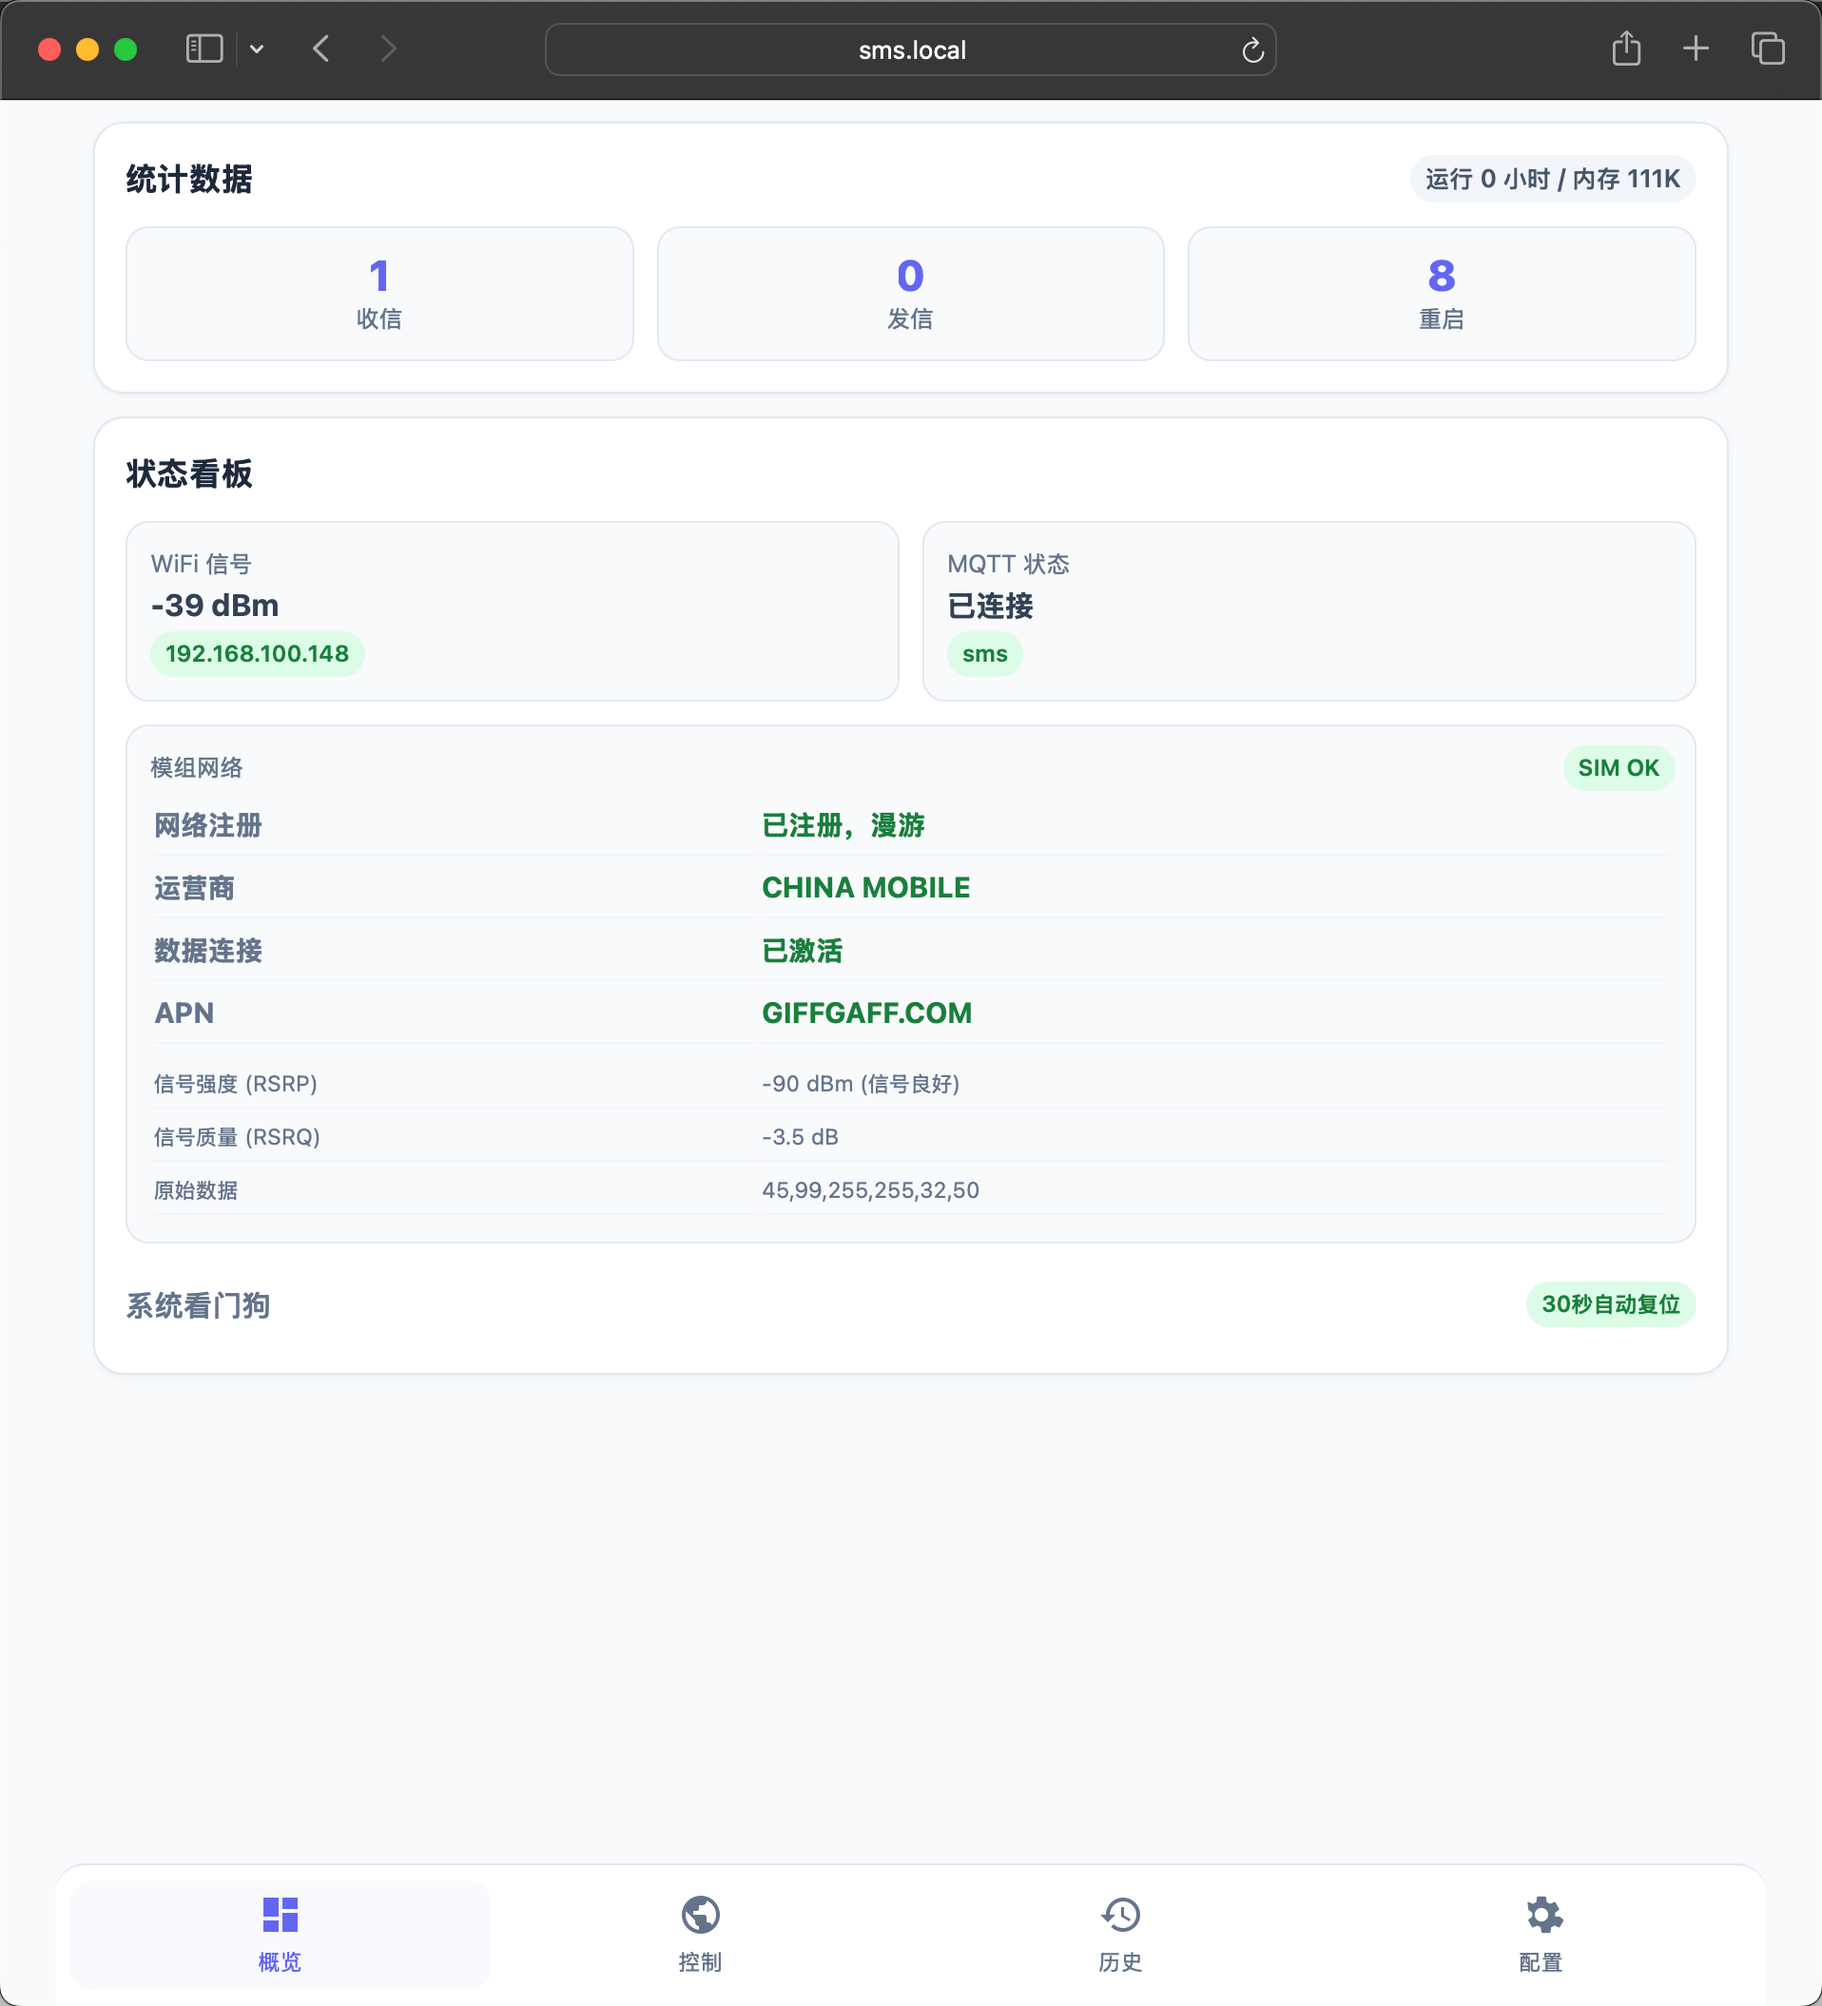
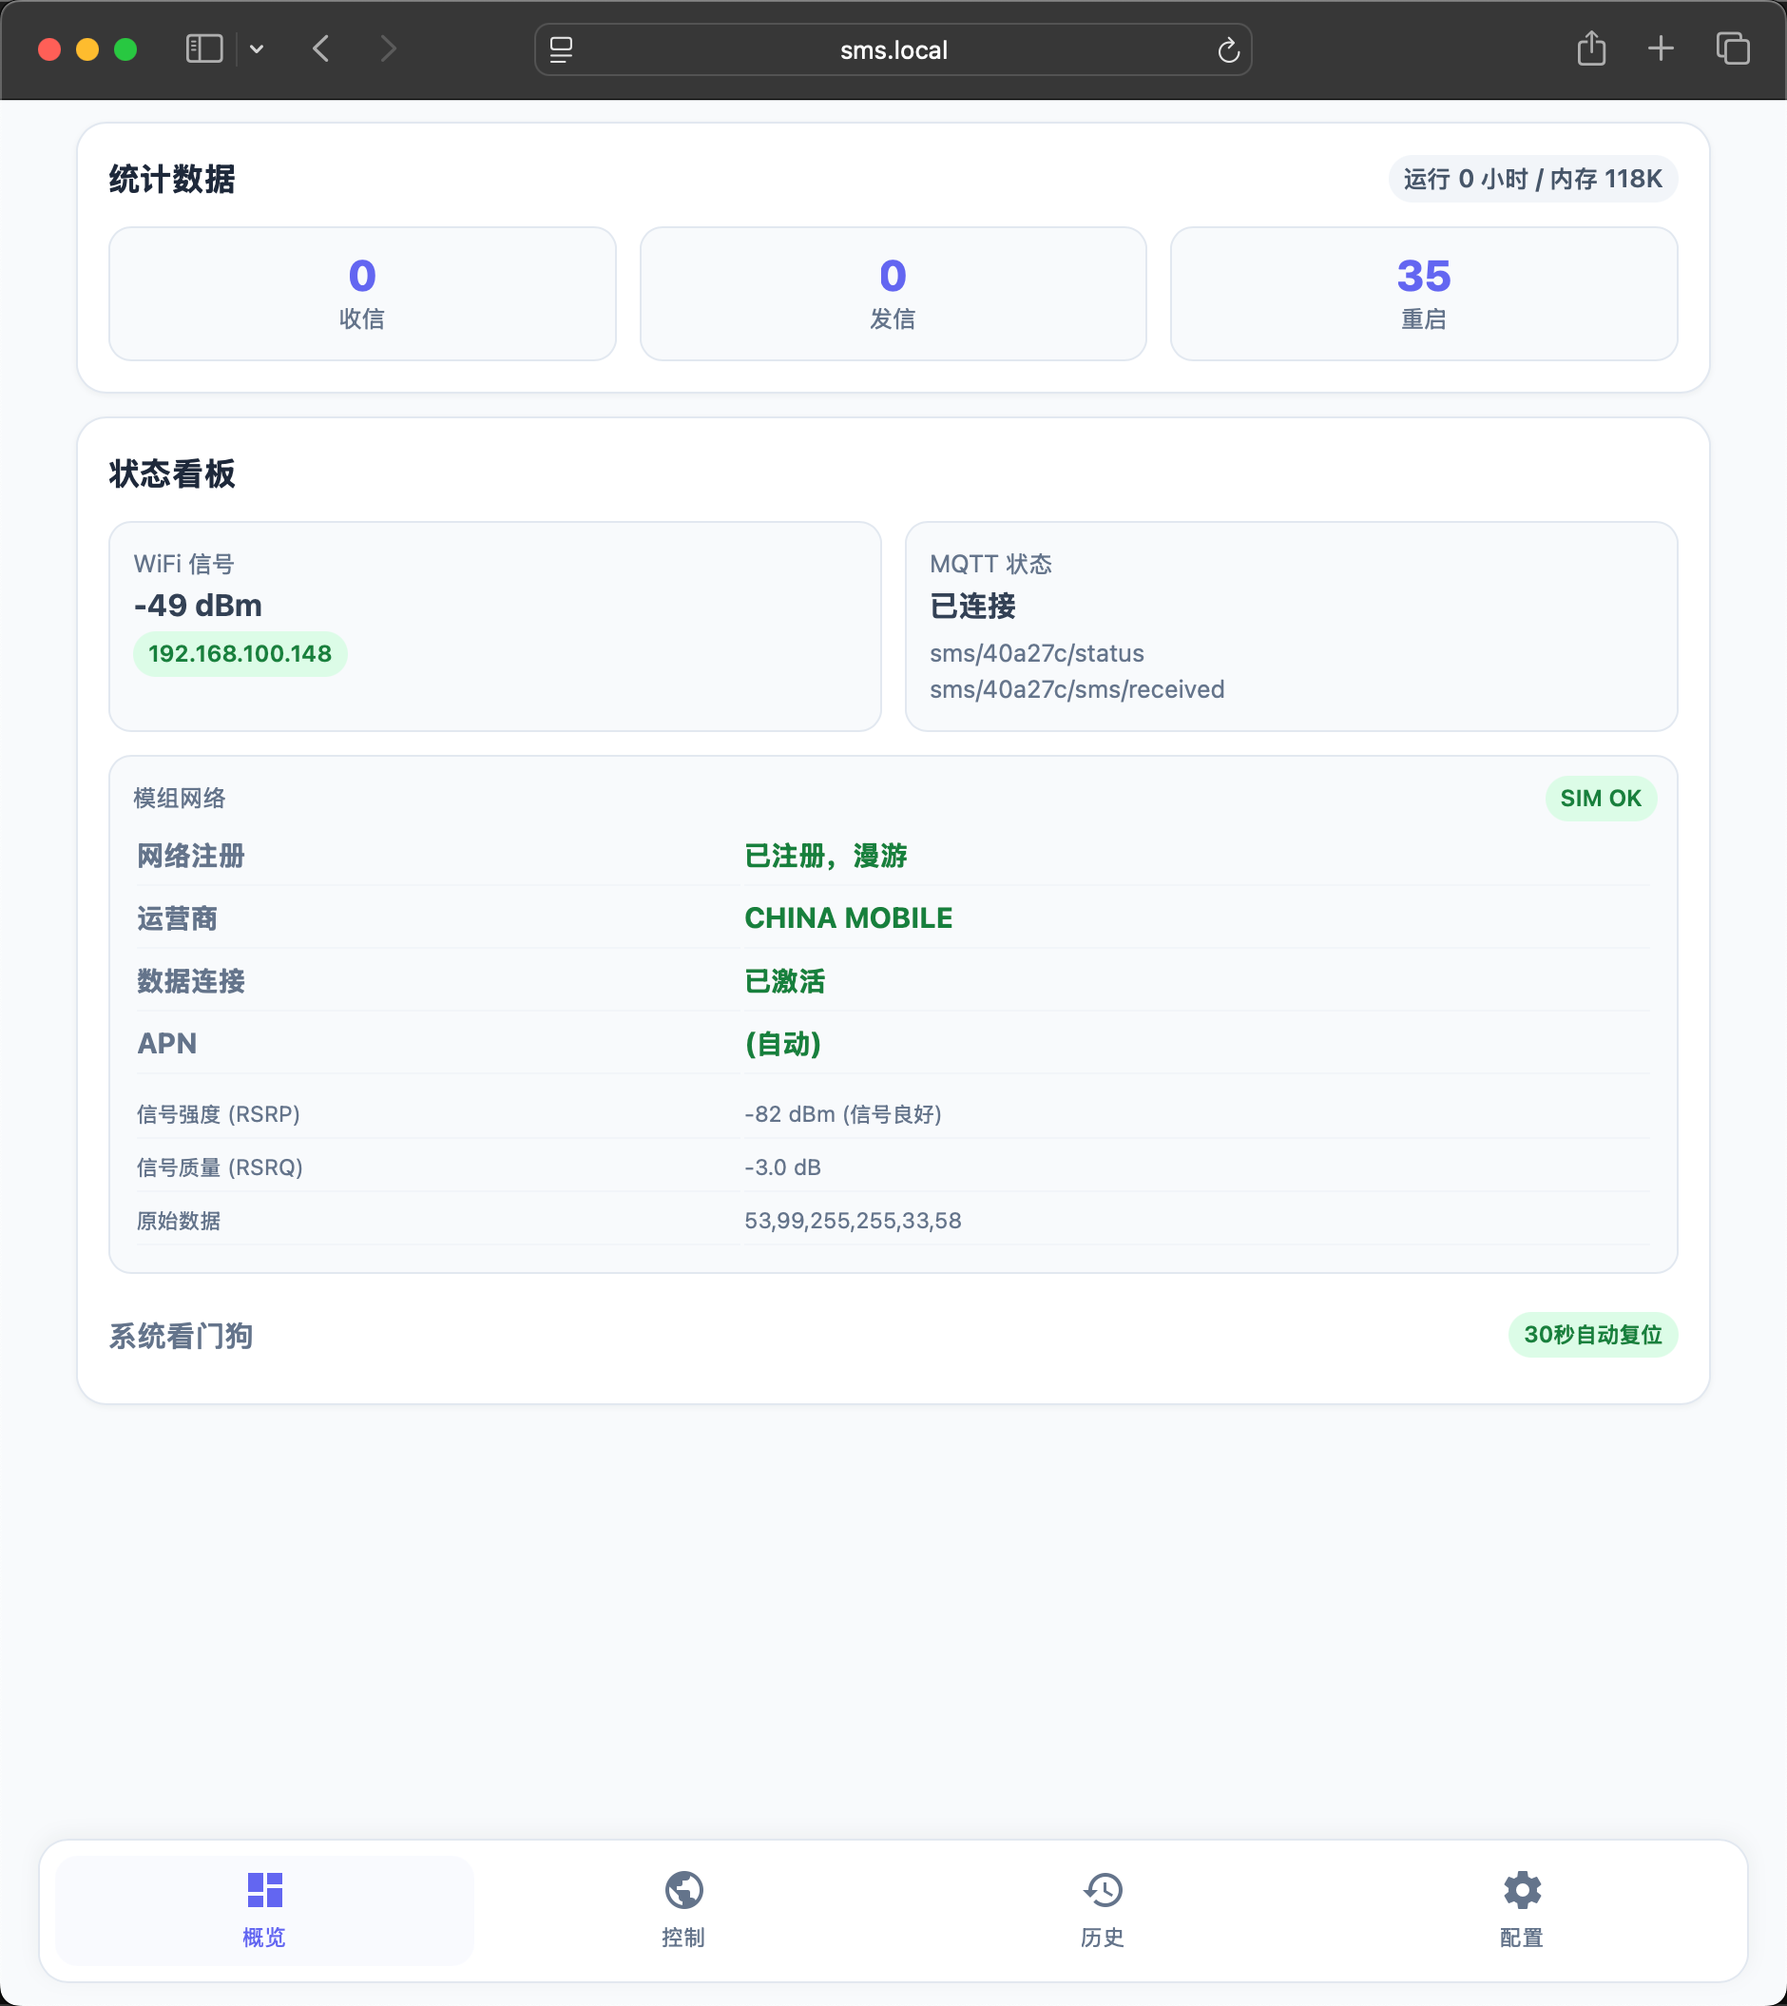
docs: Update `homepage.png`, add `shiwu.png`, and modify `README.md`.docs: Update `homepage.png`, add `shiwu.png`, and modify `README.md`.

diff --git a/README.md b/README.md
@@ -1,10 +1,10 @@
 # 低成本短信转发器
 
 用低成本硬件实现短信自动转发，只需要提供供电和WiFi即可，收到短信后自动推送到手机/邮箱/智能家居，再也不怕错过验证码！
+虽然芯片标记的全网通，该项目可能不支持电信卡，使用电信卡会连不上网，具体请自测。
 
-> 该项目可能不支持电信卡，使用电信卡会连不上网，我也不懂为啥，具体请自测。
-
-本项目基于 [sms_forwarding](https://github.com/chenxuuu/sms_forwarding) 二次开发。
+> 本项目基于 chenxuuu/sms_forwarding 进行二次开发，原项目采用 MIT 协议。本项目保留原作者版权声明，并在此基础上增加/改动了功能。
+原项目固件的视频教程：[B站视频](https://www.bilibili.com/video/BV1cSmABYEiX),少部分不适用于当前修改版，大部分通用。
 
 **删除的功能：** PushPlus、Server酱（可用自定义 Webhook 替代）
 
@@ -14,13 +14,12 @@
 - 全新现代化 Web 界面
 - 完整的 MQTT 支持，可接入 Home Assistant，提供传感器配置和自动化蓝图
 
-> 原项目固件的视频教程：[B站视频](https://www.bilibili.com/video/BV1cSmABYEiX),少部分不适用于当前修改版，大部分通用。
+
 
 <img src="assets/homepage.png" width="600" />
 
 ## 更新日志
 
-### v2.0 (2025-12)
 - ✨ 新增 Telegram Bot 推送
 - ✨ 新增企业微信机器人推送  
 - ✨ 新增钉钉机器人推送
@@ -35,10 +34,6 @@
 - 🎨 概览页显示完整设备状态
 - 🐛 修复多处 bug，优化稳定性
 
-### v1.0 (原版)
-- 基础短信转发功能
-- MQTT 接入
-- 网页配置界面
 
 ## 功能特点
 
@@ -89,7 +84,9 @@
 ## 接线方式
 #### 注意，rx和tx的针脚和 GPIO3  GPIO4不是垂直对应,要掰弯针脚，我是建议买焊接好的esp32c3，然后使用杜邦线连接，然后ML307R的 EN 要和 5V(VCC) 连接,否则无法正常运行
 
-<img src="assets/connect.png" width="400" />
+| 接线示意图 | 实物连接图 |
+|:---:|:---:|
+| <img src="assets/connect.png" width="400" /> | <img src="assets/shiwu.png" width="400" /> |
 ```
 
 简单说就是：
